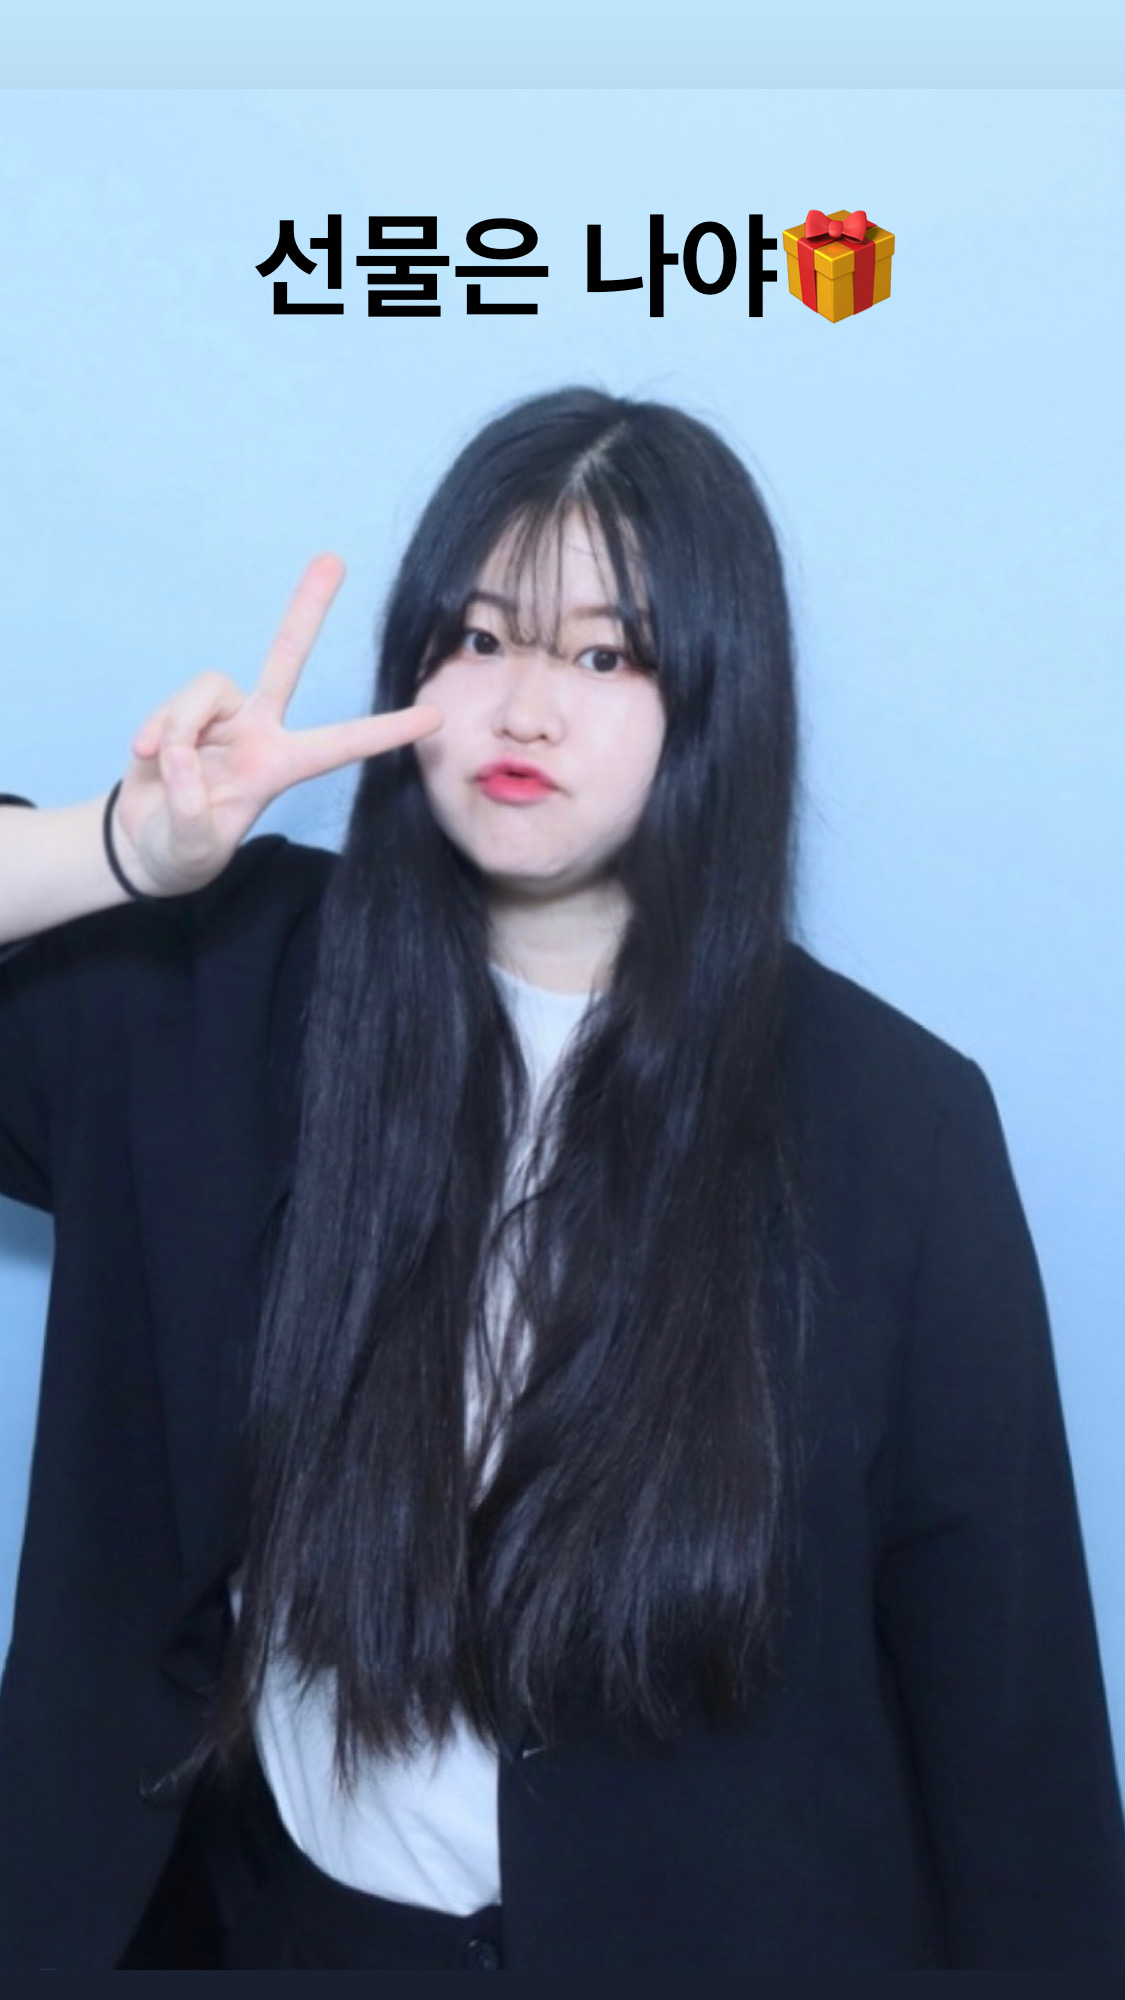
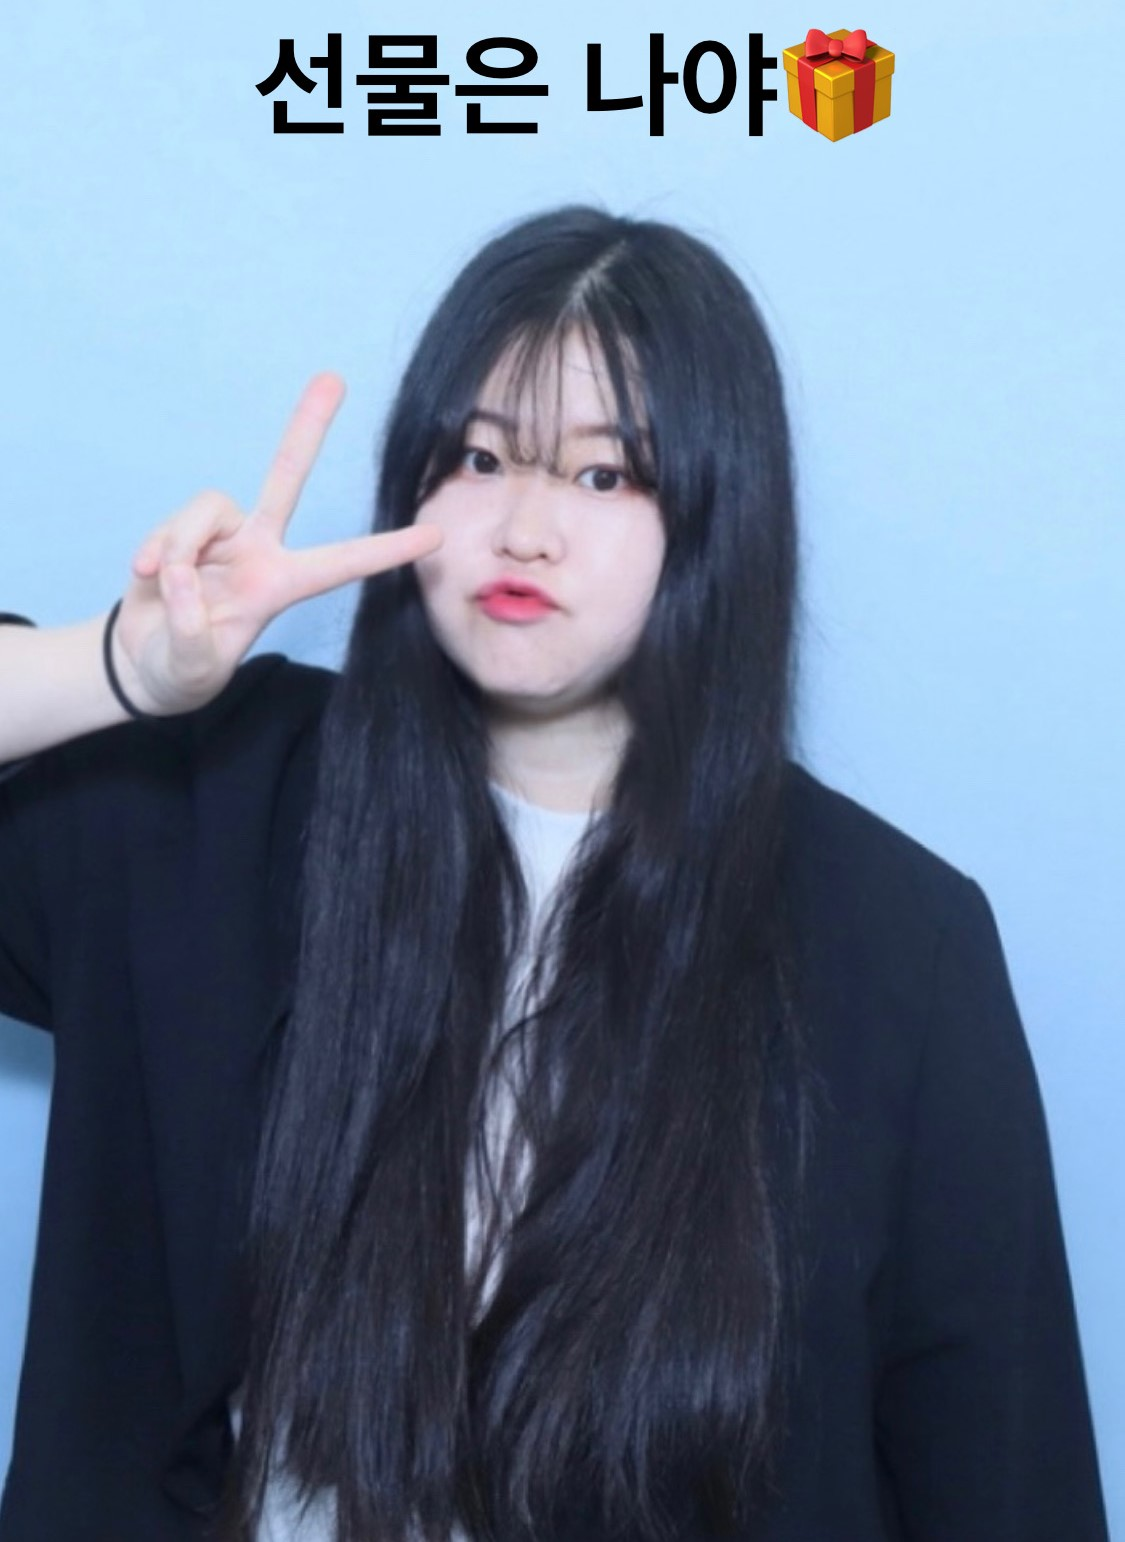
Fix: 전반적인 디자인 수정

diff --git a/src/pages/Present.tsx b/src/pages/Present.tsx
@@ -20,13 +20,20 @@ const CelebrationText = styled.h1`
 `;
 
 const CountdownText = styled.div`
-  font-size: 24px;
+  font-size: 50px;
   color: black;
 `;
 
-const Image = styled.img`
+type ImageProps = {
+  show: boolean;
+};
+
+const Image = styled.img<ImageProps>`
   display: ${props => (props.show ? 'block' : 'none')};
+  width: 40%; 
+  height: auto; 
 `;
+
 
 const PresentPage: React.FC = () => {
   const [countdown, setCountdown] = useState(5);
@@ -43,7 +50,7 @@ const PresentPage: React.FC = () => {
 
   return (
     <PresentContainer>
-      <CelebrationText>선물은 과연 무엇일까요 ...?</CelebrationText>
+      <CelebrationText>오빠를 위한 선물은 과연 무엇일까요 ...?</CelebrationText>
       {!showImage && <CountdownText>{countdown}</CountdownText>}
       <Image show={showImage} src="/images/present.jpg" alt="present"/>
     </PresentContainer>

diff --git a/src/pages/ToDeuni.tsx b/src/pages/ToDeuni.tsx
@@ -2,7 +2,7 @@ import React, { useState } from "react";
 import styled from "styled-components";
 
 const ToDeuniContainer = styled.div`
-  background-color: #EEF1F4;
+  background-color: #DBF1C9;
   min-height: 100vh;
   display: flex;
   flex-direction: column;

diff --git a/src/pages/index.tsx b/src/pages/index.tsx
@@ -6,7 +6,7 @@ import PhotoPage from './Photo';
 import PresentPage from './Present';
 
 const MainContainer = styled.main` 
-  background-color: #EEF1F4;
+  background-color: #DBF1C9;
   min-height: 100vh;
   display: flex;
   flex-direction: column;
